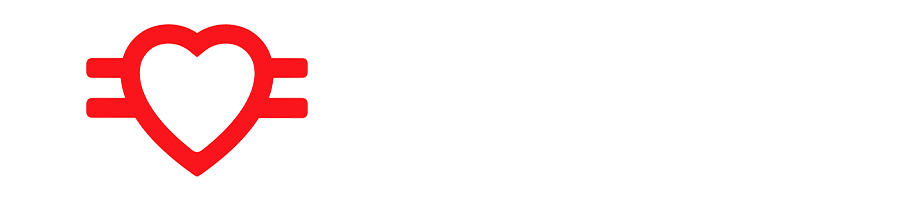
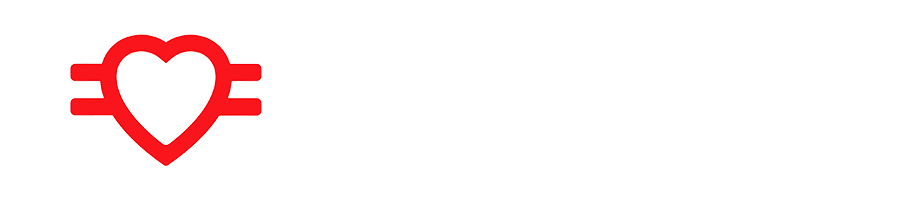
change lovedao wordmark pic

Changed region(s): [[0.0622, 0.12, 0.3422, 0.87]]

diff --git a/app/javascript/mastodon/components/logo.tsx b/app/javascript/mastodon/components/logo.tsx
@@ -1,11 +1,11 @@
-import logo from 'mastodon/../images/logo.svg';
-
 const getDarkWordmark = () => {
   switch (process.env.REACT_APP_DAO) {
     case 'chinesedao':
       return '/images/chinese-wordmark-dark.png';
     case 'facedao':
       return '/images/face-wordmark-dark.png';
+    case 'lovedao':
+      return '/images/love-wordmark-dark.png';
     default:
       return '/images/chinese-wordmark-dark.png';
   }
@@ -16,6 +16,8 @@ const getLightWordmark = () => {
       return '/images/chinese-wordmark-light.png';
     case 'facedao':
       return '/images/face-wordmark-light.png';
+    case 'lovedao':
+      return '/images/love-wordmark-light.png';
     default:
       return '/images/chinese-wordmark-light.png';
   }
@@ -31,6 +33,8 @@ const getIcon = () => {
       return '/images/chinese-icon.png';
     case 'facedao':
       return '/images/face-icon.png';
+    case 'lovedao':
+      return '/images/love-icon.png';
     default:
       return '/images/chinese-icon.png';
   }
